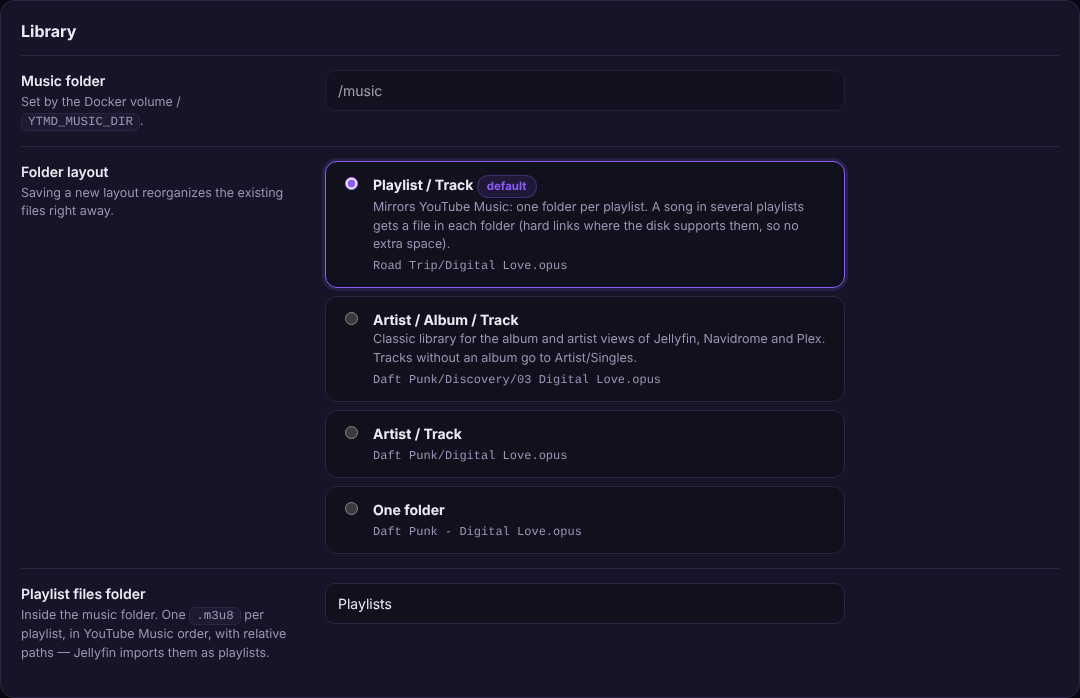
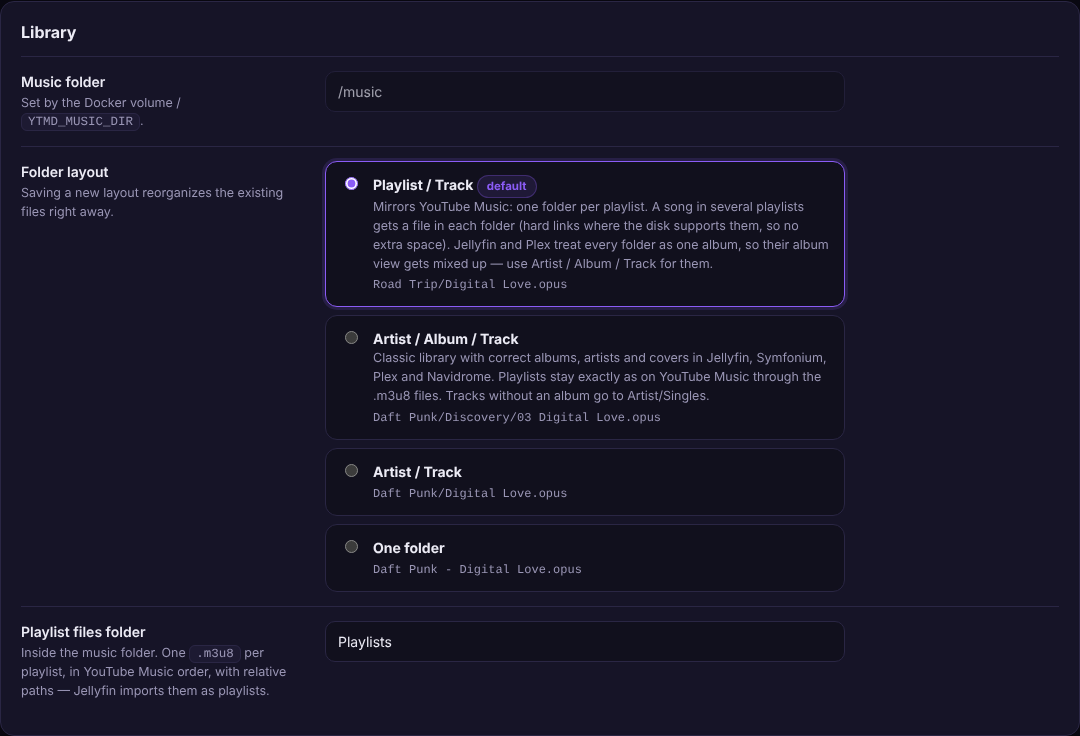
Stop putting a generated cover into playlist folders
Jellyfin gives a folder's cover.jpg to every song in it, so since 1.2.0
every song showed its playlist's generated cover instead of its own art.
Playlist folders no longer get one, and the covers 1.2.0-1.3.0 wrote are
deleted at the next sync; only files identical to the generated cover go,
a cover.jpg of your own stays.

Settings and README now recommend the Artist/Album/Track layout for
Jellyfin and Plex, which build albums from folders: with playlist folders
each one became an album named after one of its songs.

diff --git a/ytmd/web/static/app.js b/ytmd/web/static/app.js
@@ -908,15 +908,15 @@ const Settings = {
         ])}
         ${this.toggle("prefer_album_version", "Prefer album versions", "When a playlist contains a music video, download the matching album track instead: clean audio without intros/skits and proper album tags.")}
         ${this.toggle("write_lyrics", "Lyrics", "Embed lyrics and save synced <code>.lrc</code> files next to the tracks when YouTube Music has them.")}
-        ${this.toggle("write_album_covers", "Folder covers", "Write a <code>cover.jpg</code> into every folder: the album art in the Artist/Album layout, a generated cover with the playlist name in the Playlist layout. Each song's own cover art is always embedded in the file.")}
+        ${this.toggle("write_album_covers", "Album folder covers", "Write the album art as <code>cover.jpg</code> into every album folder (Artist/Album layout). Each song's own cover art is always embedded in the file.")}
         ${this.toggle("sponsorblock_remove_offtopic", "Cut non-music parts", "Uses SponsorBlock to remove talking/skits from music videos (only affects videos that have segments).")}
       </div>
 
       <div class="card"><div class="card-head"><h2>Library</h2></div>
         ${this.field("Music folder", "Set by the Docker volume / <code>YTMD_MUSIC_DIR</code>.", `<input type="text" value="${esc(s.paths?.music || "")}" disabled>`)}
         ${this.radios("layout", "Folder layout", "Saving a new layout reorganizes the existing files right away.", [
-          { value: "playlist", title: "Playlist / Track <span class='badge violet'>default</span>", desc: "Mirrors YouTube Music: one folder per playlist. A song in several playlists gets a file in each folder (hard links where the disk supports them, so no extra space).", example: "Road Trip/Digital Love.opus" },
-          { value: "artist_album", title: "Artist / Album / Track", desc: "Classic library for the album and artist views of Jellyfin, Navidrome and Plex. Tracks without an album go to Artist/Singles.", example: "Daft Punk/Discovery/03 Digital Love.opus" },
+          { value: "playlist", title: "Playlist / Track <span class='badge violet'>default</span>", desc: "Mirrors YouTube Music: one folder per playlist. A song in several playlists gets a file in each folder (hard links where the disk supports them, so no extra space). Jellyfin and Plex treat every folder as one album, so their album view gets mixed up — use Artist / Album / Track for them.", example: "Road Trip/Digital Love.opus" },
+          { value: "artist_album", title: "Artist / Album / Track", desc: "Classic library with correct albums, artists and covers in Jellyfin, Symfonium, Plex and Navidrome. Playlists stay exactly as on YouTube Music through the .m3u8 files. Tracks without an album go to Artist/Singles.", example: "Daft Punk/Discovery/03 Digital Love.opus" },
           { value: "artist", title: "Artist / Track", example: "Daft Punk/Digital Love.opus" },
           { value: "flat", title: "One folder", example: "Daft Punk - Digital Love.opus" },
         ])}

diff --git a/tests/test_playlist_layout.py b/tests/test_playlist_layout.py
@@ -36,7 +36,6 @@ def test_every_playlist_gets_its_own_folder(h):
                                "Chill/Kong.opus", "Chill/Teardrop.opus"}
     assert h.m3u8("Road Trip") == ["../Road Trip/Digital Love.opus", "../Road Trip/Kong.opus"]
     assert h.m3u8("Chill") == ["../Chill/Kong.opus", "../Chill/Teardrop.opus"]
-    assert (h.music / "Road Trip/cover.jpg").read_bytes()[:2] == b"\xff\xd8"  # generated playlist cover
 
 
 def test_copy_shares_the_downloaded_file(h):
@@ -160,20 +159,29 @@ def test_playlist_cover_is_not_carried_into_album_folders(h):
     assert not (h.music / "Road Trip").exists()
 
 
-def test_no_generated_covers_when_disabled(h):
-    h.settings.update({"write_album_covers": False})
-    h.sync()
+def test_playlist_folders_get_no_generated_cover(h):
+    h.sync()  # Jellyfin would show a folder's cover.jpg on every song in it
+    assert (h.music / "Road Trip/Digital Love.opus").exists()
     assert not (h.music / "Road Trip/cover.jpg").exists()
 
 
-def test_generated_cover_handles_polish_and_emoji():
-    import io
-
-    from PIL import Image
-
+def test_covers_generated_by_older_versions_are_removed_once(h):
     from ytmd.covers import playlist_cover
-    img = Image.open(io.BytesIO(playlist_cover("Ameryka Południowa ☕", size=300)))
-    assert img.size == (300, 300) and img.format == "JPEG"
+    h.sync()
+    h.db.set_kv("generated_covers_removed", None)  # as after an upgrade from 1.2.0-1.3.0
+    (h.music / "Road Trip/cover.jpg").write_bytes(playlist_cover("Road Trip"))
+    (h.music / "Chill/cover.jpg").write_bytes(b"my own picture")
+    h.sync()
+    assert not (h.music / "Road Trip/cover.jpg").exists()
+    assert (h.music / "Chill/cover.jpg").read_bytes() == b"my own picture"
+    (h.music / "Road Trip/cover.jpg").write_bytes(playlist_cover("Road Trip"))
+    h.sync()  # checked only once; anything put there later is left alone
+    assert (h.music / "Road Trip/cover.jpg").exists()
+
+
+def test_generated_cover_is_deterministic():
+    from ytmd.covers import playlist_cover
+    assert playlist_cover("Ameryka Południowa ☕") == playlist_cover("Ameryka Południowa ☕")
 
 
 def test_music_video_with_an_unrelated_counterpart_is_kept(harness):

diff --git a/ytmd/sync.py b/ytmd/sync.py
@@ -560,12 +560,7 @@ class SyncEngine:
 
         summary.playlist_files_changed += self._sync_copies(settings)
         names = self._playlist_names()
-        if settings.layout == "playlist" and settings.write_album_covers:
-            titles = {p["id"]: p["title"] for p in self.db.active_playlists()}
-            for pid, name in names.items():
-                folder = self.music_dir / name
-                if folder.is_dir() and not (folder / COVER_FILE).exists():
-                    (folder / COVER_FILE).write_bytes(playlist_cover(titles[pid]))
+        self._remove_generated_covers(names)
         active_ids = set()
         for p in self.db.active_playlists():
             active_ids.add(p["id"])
@@ -590,6 +585,25 @@ class SyncEngine:
                 summary.playlist_files_changed += 1
             if not p["in_library"]:
                 self.db.delete_playlist(p["id"])
+
+    def _remove_generated_covers(self, names: dict[str, str]) -> None:
+        """Delete the playlist covers that 1.2.0-1.3.0 put into every playlist folder (once).
+
+        Jellyfin gives a folder's cover.jpg to every song in it, so each song showed the playlist cover instead
+        of its own. Only files identical to the generated cover are deleted; a cover.jpg of your own stays.
+        """
+        if self.db.get_kv("generated_covers_removed"):
+            return
+        titles = {p["id"]: p["title"] for p in self.db.playlists()}
+        for pid, name in names.items():
+            cover = self.music_dir / name / COVER_FILE
+            try:
+                if cover.is_file() and cover.read_bytes() == playlist_cover(titles[pid]):
+                    cover.unlink()
+                    log.info("Removed the generated playlist cover %s/%s", name, COVER_FILE)
+            except OSError as exc:
+                log.warning("Could not check %s: %s", cover, exc)
+        self.db.set_kv("generated_covers_removed", True)
 
     # ------------------------------------------------------------------ step 4: downloads
     def _download_options(self, settings: Settings) -> DownloadOptions:

diff --git a/ytmd/covers.py b/ytmd/covers.py
@@ -1,4 +1,8 @@
-"""Simple generated cover art for playlist folders (used by the "playlist" layout)."""
+"""The cover art 1.2.0-1.3.0 generated for playlist folders.
+
+No longer written (Jellyfin showed it on every song of the folder); kept so the sync engine can recognise
+those exact files and delete them.
+"""
 
 from __future__ import annotations
 

diff --git a/README.pl.md b/README.pl.md
@@ -156,9 +156,9 @@ Przy każdym wpisie jest link do utworu w YouTube Music.
 ### Układ biblioteki
 
 Domyślnie folder odwzorowuje YouTube Music: jeden folder na playlistę. Możesz przełączyć na klasyczną
-bibliotekę `Wykonawca/Album/01 Tytuł` (najlepsze widoki albumów i wykonawców w Jellyfinie, Navidrome
-i Plexie), `Wykonawca/Tytuł` albo jeden płaski folder — zapisanie od razu przebudowuje istniejące pliki,
-nic nie jest pobierane ponownie.
+bibliotekę `Wykonawca/Album/01 Tytuł` (właściwy wybór dla Jellyfina i Plexa, zobacz
+[niżej](#jellyfin-i-symfonium)), `Wykonawca/Tytuł` albo jeden płaski folder — zapisanie od razu przebudowuje
+istniejące pliki, nic nie jest pobierane ponownie.
 
 <p align="center"><img src="docs/screenshots/library-layout.png" alt="Ustawienie układu folderów" width="80%"></p>
 
@@ -232,7 +232,6 @@ Każda synchronizacja:
 ```text
 music/
 ├── Road Trip/                         ← jeden folder na playlistę (domyślny układ)
-│   ├── cover.jpg                      ← wygenerowana okładka playlisty
 │   ├── Digital Love.opus
 │   ├── Digital Love.lrc               ← zsynchronizowany tekst (jeśli jest)
 │   └── Kong.opus
@@ -275,17 +274,20 @@ udziały sieciowe), robiona jest zwykła kopia.
 4. W **Symfonium** dodaj serwer Jellyfin jako źródło (media provider). Playlisty i nowe utwory pojawią się
    po kolejnej synchronizacji źródła.
 
-**Okładki w układzie playlist:** Jellyfin traktuje każdy folder jako jeden album, więc utwory z folderu
-playlisty dostają wspólny obrazek albumu — stąd wrażenie „złych” okładek przy niektórych utworach. Żeby to
-było celowe, aplikacja wrzuca do każdego folderu playlisty wygenerowany `cover.jpg` z nazwą playlisty
-(Settings → *Folder covers*):
+**Z Jellyfinem (i Plexem) używaj układu `Artist/Album/Track`.** Budują one albumy z folderów, więc przy
+domyślnym układzie playlist każdy folder playlisty staje się jednym „albumem” nazwanym po którymś z jego
+utworów, a Symfonium pokazuje tę nazwę jako album każdego utworu z tego folderu. Z `Artist/Album/Track`
+(Settings → Library) albumy, wykonawcy i okładki są poprawne, a playlisty zostają dokładnie takie jak
+w YouTube Music — biorą się z plików `.m3u8`, a Jellyfin składa ich obrazki z okładek utworów. Przełączenie
+przebudowuje pliki bez ponownego pobierania.
 
-<p align="center"><img src="docs/screenshots/covers.png" alt="Wygenerowane okładki playlist" width="100%"></p>
+**Navidrome** grupuje albumy po tagach, a nie po folderach, więc działa z każdym układem; playlisty `.m3u8`
+importuje z folderu z muzyką automatycznie.
 
-Prawdziwa okładka każdego utworu zostaje osadzona w pliku; jeśli chcesz, żeby Jellyfin i Symfonium wszędzie
-pokazywały okładki albumów, użyj układu `Artist/Album/Track`.
-
-**Navidrome** działa tak samo — automatycznie importuje playlisty `.m3u8` z folderu z muzyką.
+> Aktualizujesz z 1.2.0–1.3.0? Te wersje wrzucały do każdego folderu playlisty wygenerowany `cover.jpg`,
+> a Jellyfin pokazywał go przy każdym utworze. Aplikacja usuwa te pliki przy kolejnej synchronizacji.
+> Jellyfin trzyma obrazki, które już zapamiętał, więc potem uruchom **Dashboard → Libraries → ⋯ → Refresh
+> metadata** dla biblioteki muzyki z zaznaczonym *Replace existing images*.
 
 ## Mac mini (Apple Silicon) 24/7
 
@@ -316,7 +318,7 @@ Prawie wszystko ustawia się w panelu WWW; zapisuje się to w `config/settings.j
 | Sync new playlists automatically | wł. | Nowe playlisty w bibliotece same zaczynają się synchronizować. |
 | Format | Opus | `opus` / `m4a` (oryginalne strumienie) lub `mp3` (przekodowane V0). |
 | Prefer album versions | wł. | Pobiera utwór z albumu zamiast teledysku. |
-| Lyrics / Folder covers | wł. | Tekst w pliku + `.lrc`, `cover.jpg` w folderze albumu lub playlisty. |
+| Lyrics / Album folder covers | wł. | Tekst w pliku + `.lrc`, `cover.jpg` w folderze albumu (układ Artist/Album). |
 | Folder layout | Playlist/Track | Albo `Artist/Album/Track`, `Artist/Track` lub jeden płaski folder. |
 | Playlist files folder | `Playlists` | Gdzie trafiają pliki `.m3u8` (wewnątrz folderu z muzyką). |
 | Keep removed tracks for | 30 dni | `0` = usuwanie od razu. |

diff --git a/README.md b/README.md
@@ -156,9 +156,9 @@ Each entry links to the song on YouTube Music.
 ### Library layout
 
 By default the folder mirrors YouTube Music: one folder per playlist. Switch to the classic
-`Artist/Album/01 Title` library (best for album and artist views in Jellyfin, Navidrome or Plex),
-`Artist/Title` or one flat folder — saving reorganizes the existing files right away, nothing is downloaded
-again.
+`Artist/Album/01 Title` library (the right choice for Jellyfin and Plex, see
+[below](#jellyfin--symfonium)), `Artist/Title` or one flat folder — saving reorganizes the existing files
+right away, nothing is downloaded again.
 
 <p align="center"><img src="docs/screenshots/library-layout.png" alt="Folder layout setting" width="80%"></p>
 
@@ -232,7 +232,6 @@ Every sync run:
 ```text
 music/
 ├── Road Trip/                         ← one folder per playlist (default layout)
-│   ├── cover.jpg                      ← generated playlist cover
 │   ├── Digital Love.opus
 │   ├── Digital Love.lrc               ← synced lyrics (when available)
 │   └── Kong.opus
@@ -274,17 +273,20 @@ copy is made.
 4. In **Symfonium**, add your Jellyfin server as a media provider. Playlists and new tracks appear after the
    next provider sync.
 
-**Covers in the playlist layout:** Jellyfin treats every folder as one album, so the songs of a playlist
-folder share that album's picture — which can look like "wrong" covers on some songs. To make it
-intentional, the app puts a generated `cover.jpg` with the playlist name into every playlist folder
-(Settings → *Folder covers*):
+**Use the `Artist/Album/Track` layout with Jellyfin (and Plex).** They build albums from folders, so with
+the default playlist layout every playlist folder turns into one "album" named after one of its songs, and
+Symfonium shows that name as the album of every song in it. With `Artist/Album/Track` (Settings → Library)
+albums, artists and covers are correct, and your playlists stay exactly as on YouTube Music — they come
+from the `.m3u8` files, and Jellyfin builds their pictures from the covers of the songs. Switching
+reorganizes the files without downloading anything again.
 
-<p align="center"><img src="docs/screenshots/covers.png" alt="Generated playlist covers" width="100%"></p>
+**Navidrome** groups albums by tags rather than folders, so any layout works there; it imports the `.m3u8`
+playlists from the music folder automatically.
 
-The real cover of each song stays embedded in its file; if you want Jellyfin and Symfonium to show per-album
-artwork everywhere, use the `Artist/Album/Track` layout.
-
-**Navidrome** works the same way — it imports `.m3u8` playlists from the music folder automatically.
+> Upgrading from 1.2.0–1.3.0? Those versions put a generated `cover.jpg` into every playlist folder, and
+> Jellyfin showed it on every song. The app now deletes those files at the next sync. Jellyfin keeps the
+> pictures it already cached, so afterwards run **Dashboard → Libraries → ⋯ → Refresh metadata** on the
+> music library with *Replace existing images* ticked.
 
 ## Running 24/7 on a Mac mini (Apple Silicon)
 
@@ -315,7 +317,7 @@ Almost everything is configured in the web UI and stored in `config/settings.jso
 | Sync new playlists automatically | on | New playlists in your library start syncing by themselves. |
 | Format | Opus | `opus` / `m4a` (original streams) or `mp3` (re-encoded V0). |
 | Prefer album versions | on | Download the album track instead of a music video. |
-| Lyrics / folder covers | on | Embedded lyrics + `.lrc`, `cover.jpg` per album or playlist folder. |
+| Lyrics / album folder covers | on | Embedded lyrics + `.lrc`, `cover.jpg` per album folder (Artist/Album layout). |
 | Folder layout | Playlist/Track | Also `Artist/Album/Track`, `Artist/Track` or one flat folder. |
 | Playlist files folder | `Playlists` | Where the `.m3u8` files go (inside the music folder). |
 | Keep removed tracks for | 30 days | `0` deletes immediately. |

diff --git a/CHANGELOG.md b/CHANGELOG.md
@@ -4,6 +4,20 @@ All notable changes to this project are documented here. The format follows
 [Keep a Changelog](https://keepachangelog.com/en/1.1.0/) and the project uses
 [Semantic Versioning](https://semver.org/).
 
+## [Unreleased]
+
+### Fixed
+
+- Every song in Jellyfin (and Symfonium) showed its playlist's generated cover instead of its own: Jellyfin
+  gives a folder's `cover.jpg` to every song in it. Playlist folders no longer get a generated cover, and
+  the ones 1.2.0–1.3.0 wrote are deleted at the next sync (a `cover.jpg` of your own is kept). Afterwards
+  refresh the music library in Jellyfin with *Replace existing images* to drop the cached pictures.
+
+### Changed
+
+- Settings and README recommend the Artist/Album/Track layout for Jellyfin and Plex: they build albums
+  from folders, so playlist folders show up there as albums named after one of their songs.
+
 ## [1.3.0] - 2026-10-29
 
 ### Added
